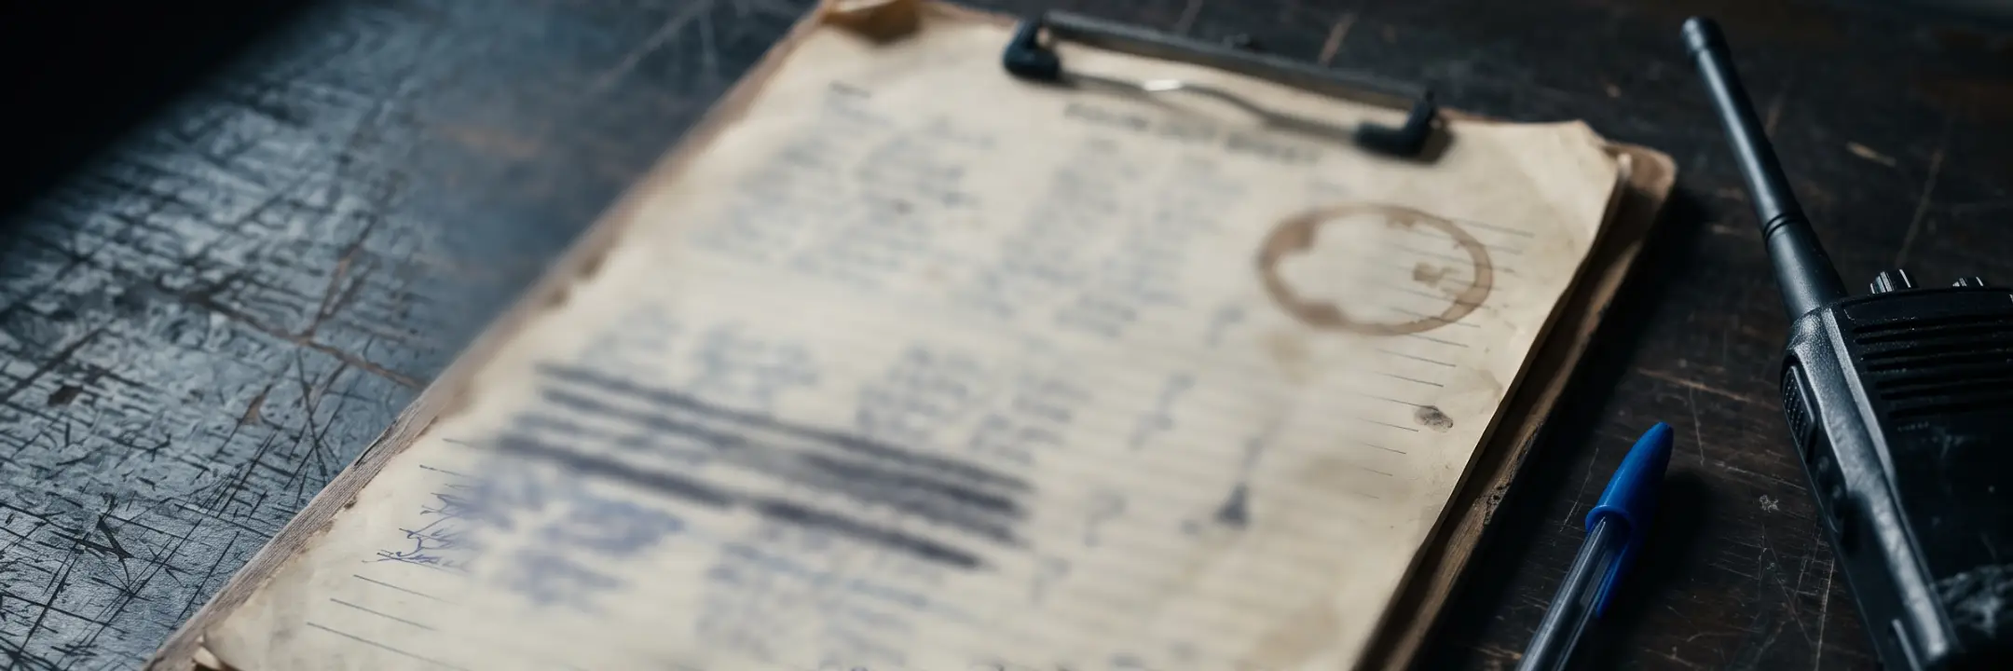
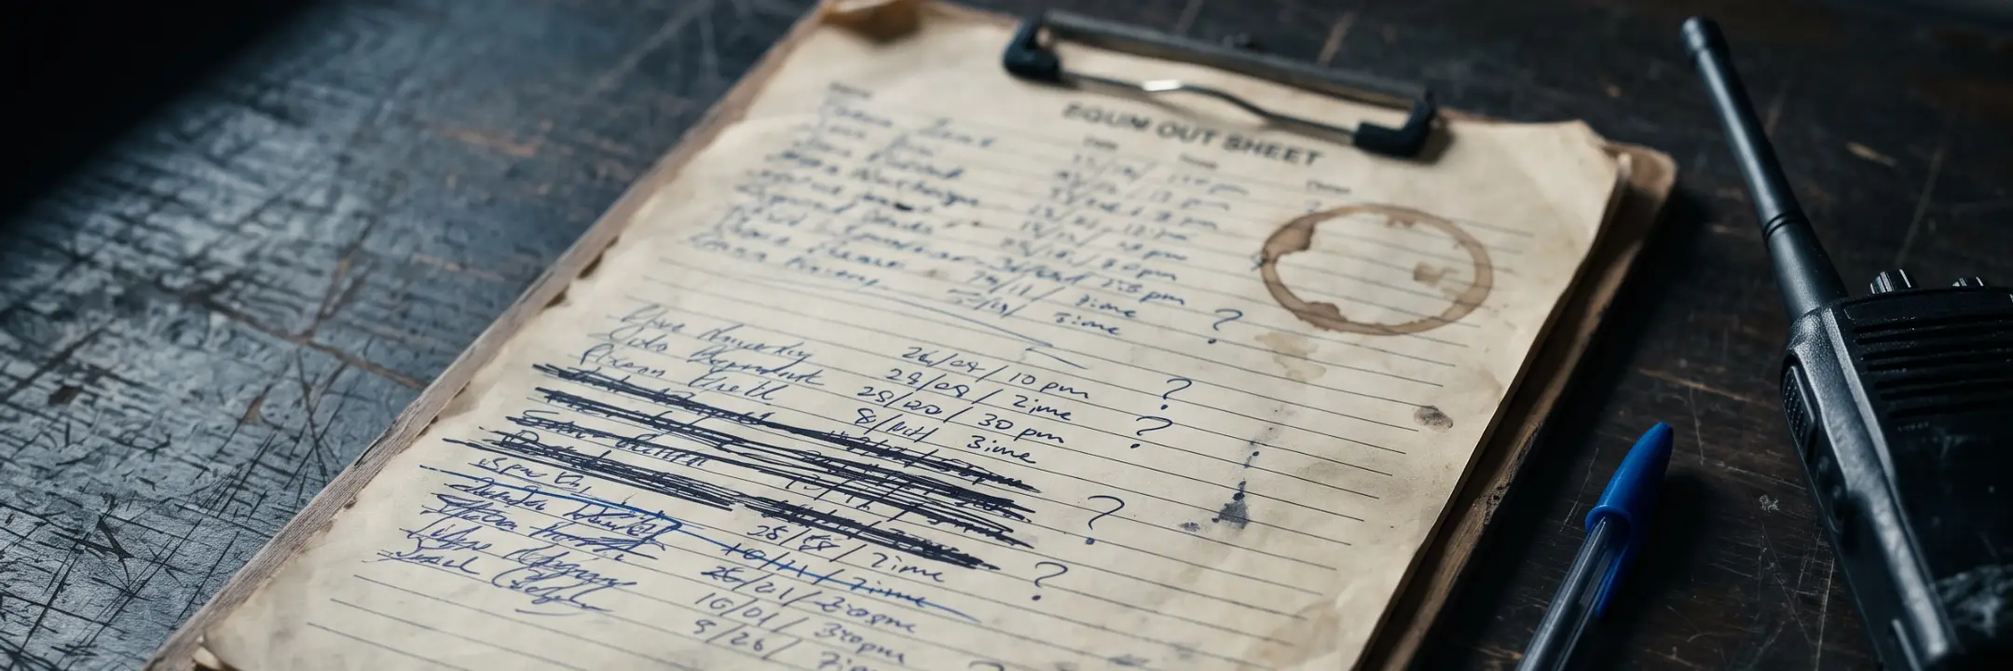
fix(site): the Director's review picks — the clipboard sharp again, the activity log's limit stated, Paddle's stylesheet on /pay
- "Clipboard · A · Crisp, as in the mock": the paper photo (the home's problem section and the Field Notes strip) is served
  sharp again; its scribbles are made-up pseudo-dates on a staged sheet and reveal nothing about when the site changed.
- "Log limit · A · Say the limit on the site": the live purge keeps 12 months OR the newest 50,000 actions per workspace,
  so every place that promises 12 months of activity now says so (home, /product, FAQ, guides, changelog; EN + HE).
- "/pay styles · A · Allow Paddle's stylesheet there" (SEC-PR1-3): style-src on /pay adds https://cdn.paddle.com only;
  Paddle's retain script stays blocked, and a refusal of the stylesheet now fails the pinned CSP walk.

Claude-Session: https://claude.ai/code/session_01UuJvrsWccbWnuyUmEBS649

diff --git a/src/bodies/index.he.html b/src/bodies/index.he.html
@@ -12,7 +12,7 @@
           <div class="glass rise rise-3">
             <div class="gp"><span class="gp-tick" aria-hidden="true"></span><span class="gp-tick" aria-hidden="true"></span><span class="gp-tick" aria-hidden="true"></span><span class="gp-tick" aria-hidden="true"></span><p class="gp-n"><bdi>1</bdi><span class="gp-unit">פעולה</span></p><p>ערכה שלמה מנופקת ונבדקת</p></div>
             <div class="gp"><span class="gp-tick" aria-hidden="true"></span><span class="gp-tick" aria-hidden="true"></span><span class="gp-tick" aria-hidden="true"></span><span class="gp-tick" aria-hidden="true"></span><p class="gp-n"><bdi>0</bdi><span class="gp-unit">מקומות</span></p><p>למי שמקבל ציוד</p></div>
-            <div class="gp"><span class="gp-tick" aria-hidden="true"></span><span class="gp-tick" aria-hidden="true"></span><span class="gp-tick" aria-hidden="true"></span><span class="gp-tick" aria-hidden="true"></span><p class="gp-n"><bdi>12</bdi><span class="gp-unit">חודשים</span></p><p>של פעילות נשמרים ביומן</p></div>
+            <div class="gp"><span class="gp-tick" aria-hidden="true"></span><span class="gp-tick" aria-hidden="true"></span><span class="gp-tick" aria-hidden="true"></span><span class="gp-tick" aria-hidden="true"></span><p class="gp-n"><bdi>12</bdi><span class="gp-unit">חודשים</span></p><p>של פעילות ביומן, עד 50,000 פעולות</p></div>
           </div>
         </div>
     </gl-band>
@@ -103,7 +103,7 @@
         </div>
         <div class="nums rv">
           <div><p class="num-v"><bdi data-to="14">14</bdi><span class="num-unit">ימים</span></p><p>אישור מסירה ממתין לחתימה</p></div>
-          <div><p class="num-v"><bdi data-to="12">12</bdi><span class="num-unit">חודשים</span></p><p>של פעילות ביומן</p></div>
+          <div><p class="num-v"><bdi data-to="12">12</bdi><span class="num-unit">חודשים</span></p><p>של פעילות ביומן, עד 50,000 פעולות</p></div>
           <div><p class="num-v"><bdi data-to="5">5</bdi><span class="num-unit">חשבונות</span></p><p>כלולים בתוכנית הבסיס</p></div>
           <div><p class="num-v"><bdi data-to="6">6</bdi><span class="num-unit">מצבים</span></p><p>כל אישור מסירה, מממתין ועד נחתם, בערעור או פג תוקף</p></div>
         </div>

diff --git a/src/bodies/index.en.html b/src/bodies/index.en.html
@@ -12,7 +12,7 @@
           <div class="glass rise rise-3">
             <div class="gp"><span class="gp-tick" aria-hidden="true"></span><span class="gp-tick" aria-hidden="true"></span><span class="gp-tick" aria-hidden="true"></span><span class="gp-tick" aria-hidden="true"></span><p class="gp-n"><bdi>1</bdi><span class="gp-unit">act</span></p><p>A whole kit handed out and checked</p></div>
             <div class="gp"><span class="gp-tick" aria-hidden="true"></span><span class="gp-tick" aria-hidden="true"></span><span class="gp-tick" aria-hidden="true"></span><span class="gp-tick" aria-hidden="true"></span><p class="gp-n"><bdi>0</bdi><span class="gp-unit">seats</span></p><p>For the people who receive gear</p></div>
-            <div class="gp"><span class="gp-tick" aria-hidden="true"></span><span class="gp-tick" aria-hidden="true"></span><span class="gp-tick" aria-hidden="true"></span><span class="gp-tick" aria-hidden="true"></span><p class="gp-n"><bdi>12</bdi><span class="gp-unit">months</span></p><p>Of activity kept in the log</p></div>
+            <div class="gp"><span class="gp-tick" aria-hidden="true"></span><span class="gp-tick" aria-hidden="true"></span><span class="gp-tick" aria-hidden="true"></span><span class="gp-tick" aria-hidden="true"></span><p class="gp-n"><bdi>12</bdi><span class="gp-unit">months</span></p><p>Of activity in the log, up to 50,000 actions</p></div>
           </div>
         </div>
     </gl-band>
@@ -103,7 +103,7 @@
         </div>
         <div class="nums rv">
           <div><p class="num-v"><bdi data-to="14">14</bdi><span class="num-unit">days</span></p><p>A receipt waits for its signature</p></div>
-          <div><p class="num-v"><bdi data-to="12">12</bdi><span class="num-unit">months</span></p><p>Of activity in the log</p></div>
+          <div><p class="num-v"><bdi data-to="12">12</bdi><span class="num-unit">months</span></p><p>Of activity in the log, up to 50,000 actions</p></div>
           <div><p class="num-v"><bdi data-to="5">5</bdi><span class="num-unit">accounts</span></p><p>Included in the base plan</p></div>
           <div><p class="num-v"><bdi data-to="6">6</bdi><span class="num-unit">states</span></p><p>Every receipt, from waiting to signed, disputed or expired</p></div>
         </div>

diff --git a/src/bodies/changelog.he.html b/src/bodies/changelog.he.html
@@ -1009,7 +1009,7 @@
               <h2 class="changelog-title">תצוגה אישית, היסטוריית פעילות ולוחות בקרה חכמים יותר</h2>
               <ul class="changelog-list">
                 <li>ברירות מחדל לתצוגת סביבת העבודה &mdash; מנהלים יכולים לקבוע את גודל הטקסט המוגדר כברירת מחדל וכמה קבוצות יושבות ברוחב שורה עבור כל סביבת העבודה, בעוד כל אדם עדיין יכול להתאים אישית את התצוגה שלו</li>
-                <li>היסטוריית פעילות בכל מקום &mdash; כפתור יומנים על כל אדם, קבוצה או כרטיסייה פותח רשומה הניתנת לגלילה של מה שהוקצה, הוחזר ונופק, נטענת בעמודים ונשמרת שנים עשר חודשים</li>
+                <li>היסטוריית פעילות בכל מקום &mdash; כפתור יומנים על כל אדם, קבוצה או כרטיסייה פותח רשומה הניתנת לגלילה של מה שהוקצה, הוחזר ונופק, נטענת בעמודים ונשמרת שנים עשר חודשים (עד 50,000 הפעולות האחרונות לסביבת עבודה)</li>
                 <li>וידג׳טים ניתנים לעריכה בלוח הבקרה עם תצוגה מקדימה חיה &mdash; התאימו כל וידג׳ט קיים, וראו בדיוק כיצד וידג׳ט ייראה בזמן שאתם בונים אותו</li>
                 <li>נתוני הדגמה עשירים יותר &mdash; פריסת מגזר לדוגמה ממלאת אותו עכשיו בשבועות של פעילות מציאותית ובלוח אנליטיקה מוכן, כך שתוכלו לחקור את כל האפליקציה מיד</li>
                 <li>האנליטיקה עוצבה מחדש כדי להתאים למראה גיליון-המפרט של האפליקציה</li>

diff --git a/src/bodies/guides.he.html b/src/bodies/guides.he.html
@@ -36,7 +36,7 @@
           <div class="cap-card">
             <div class="cap-ref">4.6</div>
             <h2 class="cap-name">עיון בהיסטוריה שלכם</h2>
-            <p class="cap-desc">לחצו על כפתור ההיסטוריה של כל איש צוות, קבוצה, ערכה או כרטיסייה &mdash; ועל <em>היסטוריה</em> בפריט מאורכב בארכיון &mdash; כדי לראות את כל מה שקרה &mdash; הקצאות, החזרות וניפוקים &mdash; באותה טבלה שבה משתמשים יומני המערכת: חותמת זמן, משתמש, סוג ופעולה, כשהכותרת נשארת במקומה תוך כדי גלילה, בקידוד צבעים ובציון מי עשה מה, עד שנים עשר חודשים אחורה.</p>
+            <p class="cap-desc">לחצו על כפתור ההיסטוריה של כל איש צוות, קבוצה, ערכה או כרטיסייה &mdash; ועל <em>היסטוריה</em> בפריט מאורכב בארכיון &mdash; כדי לראות את כל מה שקרה &mdash; הקצאות, החזרות וניפוקים &mdash; באותה טבלה שבה משתמשים יומני המערכת: חותמת זמן, משתמש, סוג ופעולה, כשהכותרת נשארת במקומה תוך כדי גלילה, בקידוד צבעים ובציון מי עשה מה, עד שנים עשר חודשים אחורה (עד 50,000 הפעולות האחרונות לסביבת עבודה).</p>
           </div>
           <div class="cap-card">
             <div class="cap-ref">4.7</div>

diff --git a/src/bodies/product.he.html b/src/bodies/product.he.html
@@ -123,8 +123,8 @@
             <div class="feat-copy rv">
               <span class="lbl">הרישום המלא</span>
               <h3>כל פעולה ברישום, עם מי ומתי.</h3>
-              <p>כל ניפוק, החזרה, תיקון וגריעה נכנסים ליומן הפעילות עם מי ביצע ומתי. אף חשבון אינו יכול לערוך את ההיסטוריה, וחשבונות רגילים אינם יכולים למחוק ממנה. היומן נשמר 12 חודשים, וייצוא מלא זמין מתי שתרצו, כ־CSV, כ־Excel או להדפסה.</p>
-              <ul class="pts"><li>מי ביצע, ומתי</li><li>נשמר 12 חודשים</li><li>ייצוא מלא, מתי שתרצו</li></ul>
+              <p>כל ניפוק, החזרה, תיקון וגריעה נכנסים ליומן הפעילות עם מי ביצע ומתי. אף חשבון אינו יכול לערוך את ההיסטוריה, וחשבונות רגילים אינם יכולים למחוק ממנה. היומן שומר את 12 החודשים האחרונים, עד 50,000 פעולות לסביבת עבודה, וייצוא מלא זמין מתי שתרצו, כ־CSV, כ־Excel או להדפסה.</p>
+              <ul class="pts"><li>מי ביצע, ומתי</li><li>12 החודשים האחרונים, עד 50,000 פעולות</li><li>ייצוא מלא, מתי שתרצו</li></ul>
             </div>
             <div class="rv"><gl-shot id="logs"></gl-shot></div>
           </div>

diff --git a/src/bodies/changelog.en.html b/src/bodies/changelog.en.html
@@ -1009,7 +1009,7 @@
               <h2 class="changelog-title">Personal Display, Activity History &amp; Smarter Dashboards</h2>
               <ul class="changelog-list">
                 <li>Workspace display defaults — admins can set the default text size and how many groups sit across a row for the whole workspace, while each person can still personalise their own view</li>
-                <li>Activity history everywhere — a Logs button on any person, group, or tab opens a scrollable record of what has been assigned, returned, and dispensed, loaded in pages and kept for twelve months</li>
+                <li>Activity history everywhere — a Logs button on any person, group, or tab opens a scrollable record of what has been assigned, returned, and dispensed, loaded in pages and kept for twelve months (up to the newest 50,000 actions per workspace)</li>
                 <li>Editable dashboard widgets with live preview — adjust any existing widget, and see exactly what a widget will look like as you build it</li>
                 <li>Richer demo data — deploying a sample sector now fills it with weeks of realistic activity and a ready-made analytics dashboard, so you can explore the whole app straight away</li>
                 <li>Analytics restyled to match the app's spec-sheet look</li>

diff --git a/src/bodies/faq.he.html b/src/bodies/faq.he.html
@@ -390,7 +390,7 @@
           </div>
           <div class="faq-item">
             <h2 class="faq-q">האם יש היסטוריית פעילות?</h2>
-            <p class="faq-a">כן. כפתור יומנים על כל אדם, קבוצה או כרטיסייה פותח רישום שוטף של מה שהוקצה, הוחזר ונופק — נשמר למשך שנים-עשר חודשים וניתן לחיפוש. כל רשומה אומרת מי ביצע את הפעולה, וקודי הסימוכין והכמויות צבועים בקוד צבע לפי סוג, כך שההיסטוריה נקראת במבט אחד.</p>
+            <p class="faq-a">כן. כפתור יומנים על כל אדם, קבוצה או כרטיסייה פותח רישום שוטף של מה שהוקצה, הוחזר ונופק — נשמר למשך שנים-עשר חודשים (עד 50,000 הפעולות האחרונות לסביבת עבודה) וניתן לחיפוש. כל רשומה אומרת מי ביצע את הפעולה, וקודי הסימוכין והכמויות צבועים בקוד צבע לפי סוג, כך שההיסטוריה נקראת במבט אחד.</p>
           </div>
           <div class="faq-item">
             <h2 class="faq-q">האם הצוות שלי יכול לעבוד ב-GearLogs בו-זמנית?</h2>

diff --git a/src/bodies/product.en.html b/src/bodies/product.en.html
@@ -123,8 +123,8 @@
             <div class="feat-copy rv">
               <span class="lbl">The whole record</span>
               <h3>Every action on the record, with who and when.</h3>
-              <p>Every hand-out, return, repair and write-off lands in the activity log with who did it and when. No account can edit the history and routine accounts cannot delete from it. The log is kept for 12 months, and a full export is there whenever you want it, as CSV, Excel or print.</p>
-              <ul class="pts"><li>Who did it, and when</li><li>Kept for 12 months</li><li>A full export, whenever you want it</li></ul>
+              <p>Every hand-out, return, repair and write-off lands in the activity log with who did it and when. No account can edit the history and routine accounts cannot delete from it. The log keeps the last 12 months, up to 50,000 actions per workspace, and a full export is there whenever you want it, as CSV, Excel or print.</p>
+              <ul class="pts"><li>Who did it, and when</li><li>The last 12 months, up to 50,000 actions</li><li>A full export, whenever you want it</li></ul>
             </div>
             <div class="rv"><gl-shot id="logs"></gl-shot></div>
           </div>

diff --git a/src/bodies/guides.en.html b/src/bodies/guides.en.html
@@ -36,7 +36,7 @@
           <div class="cap-card">
             <div class="cap-ref">4.6</div>
             <h2 class="cap-name">Review Your History</h2>
-            <p class="cap-desc">Use the history button on any person, group, kit or tab &mdash; and <em>History</em> on an archived item in the Archive &mdash; to see everything that&rsquo;s happened &mdash; assignments, returns, dispensing &mdash; in the same table System Logs uses: timestamp, user, type and action, the header staying put as you scroll, colour-coded and naming who did what, going back twelve months.</p>
+            <p class="cap-desc">Use the history button on any person, group, kit or tab &mdash; and <em>History</em> on an archived item in the Archive &mdash; to see everything that&rsquo;s happened &mdash; assignments, returns, dispensing &mdash; in the same table System Logs uses: timestamp, user, type and action, the header staying put as you scroll, colour-coded and naming who did what, going back twelve months (up to the newest 50,000 actions per workspace).</p>
           </div>
           <div class="cap-card">
             <div class="cap-ref">4.7</div>

diff --git a/src/bodies/faq.en.html b/src/bodies/faq.en.html
@@ -390,7 +390,7 @@
           </div>
           <div class="faq-item">
             <h2 class="faq-q">Is there an activity history?</h2>
-            <p class="faq-a">Yes. A Logs button on any person, group, or tab opens a running record of what's been assigned, returned, and dispensed — kept for twelve months and searchable. Every entry names who performed the action, and reference codes and quantities are colour-coded by type so the history reads at a glance.</p>
+            <p class="faq-a">Yes. A Logs button on any person, group, or tab opens a running record of what's been assigned, returned, and dispensed — kept for twelve months (up to the newest 50,000 actions per workspace) and searchable. Every entry names who performed the action, and reference codes and quantities are colour-coded by type so the history reads at a glance.</p>
           </div>
           <div class="faq-item">
             <h2 class="faq-q">Can my team work in GearLogs at the same time?</h2>

diff --git a/CLAUDE.md b/CLAUDE.md
@@ -7,7 +7,7 @@ A generated, **bilingual** static site (EN + native Hebrew, RTL — since web #7
 
 ## The Stage 2 look (2026-09-27, the approved Home Mock)
 - **The chrome** (`src/chrome.mjs`): the header floats transparent over the page's first band (a page that opens without one gets it on ink, `.is-solid`); the bar is Product · Security · Pricing · a click-open **Help** menu (`<details>`, closed on Escape/outside click by `src/scripts/nav/menu.ts`), then the language link · Sign in · Request access (`/contact?reason=access&from=header`); the footer is the ink band with only pages that exist (F1 · A). Words live in `src/i18n.mjs` (`NAV_ITEMS`, `FOOTER_COLUMNS`, EN + HE).
-- **The photo band** (F3 · C): every page opens with `<gl-band photo="…">` (the home's is the hero variant) holding `.band-kicker` · ONE `<h1 class="band-title">` · `.band-lede` (· `.band-note`, `.band-trail`; `variant="article"` for a Field Note). `scripts/lib/band.mjs` expands it; the build refuses a page without one. Photos: originals in `assets/photos/` (never deployed, provenance in `PROVENANCE.md`) → `npm run photos` cuts each to a 3:1 strip in three widths into `public/img/photos/` + `manifest.json` (a date-like patch is cut out or blurred in the served copy — no dates on the site).
+- **The photo band** (F3 · C): every page opens with `<gl-band photo="…">` (the home's is the hero variant) holding `.band-kicker` · ONE `<h1 class="band-title">` · `.band-lede` (· `.band-note`, `.band-trail`; `variant="article"` for a Field Note). `scripts/lib/band.mjs` expands it; the build refuses a page without one. Photos: originals in `assets/photos/` (never deployed, provenance in `PROVENANCE.md`) → `npm run photos` cuts each to a 3:1 strip in three widths into `public/img/photos/` + `manifest.json` (the legal strip is cut above its dated-looking form; the clipboard stays sharp by his pick "Clipboard · A · Crisp, as in the mock").
 - **Real app screens** (S2-02): a body writes `<gl-shot id="board">` (optionally `inset="mygear-receipt"`); `scripts/lib/shots.mjs` expands it from `public/img/app/manifest.json` into the ONE frame (the page's language, its alt text, 1600w + the full 2× picture, click to enlarge in the ONE viewer `src/scripts/lightbox/lightbox.ts`). The build refuses an unknown id, a missing language, a picture in the other language and ANY `/img/app/` picture outside a frame. `npm run capture` writes both sizes; a shot may picture one element (`target`) or a rectangle it measures (`clip`).
 - **Section photos**: `<gl-photo name="repair" class="pc-img" sizes="606px">` (`scripts/lib/photo-tags.mjs`, with `<gl-band>`; the home's hero is `<gl-band photo="hero" variant="hero">`). Every photo is decorative (`alt=""`), never captioned as a customer.
 - **Motion** (Q11 · A): `src/scripts/motion/motion.ts` — a `.rv` block rises in once, `data-stagger` rows follow one another, `data-to` numbers count up; hidden only after the script marks `<html class="motion">`; reduced motion = still. The hero's push is CSS, once.

diff --git a/assets/photos/PROVENANCE.md b/assets/photos/PROVENANCE.md
@@ -33,8 +33,8 @@ Made the same way (the Gemini app, Nano Banana 2, Pro, 16:9, his signed-in brows
 | contact.jpg | 16:9 · 2752×1536 | An operations coordinator on a headset at a depot-office desk, warm lamp light, the warehouse through an interior window | /contact |
 | legal.jpg | 16:9 · 2752×1536 | A records room: plain archive binders and box files, one binder open with a signed form and a pen, handwriting illegible (second take: the first take's boxes carried readable words) | /privacy · /terms · /refunds |
 
-Field Notes keeps paper.jpg. **Edits to record in the served copies** (the site shows no dates — the Director's rule; the originals here stay untouched): legal.jpg's open form carries date-like pseudo-writing, so its served strip is cut ABOVE the binder (the form is not in the file at all); paper.jpg's sign-out sheet carries date-like scribbles, so its served strip blurs the handwriting through a feathered mask.
+Field Notes keeps paper.jpg. **Edits to record in the served copies** (the site shows no dates — the Director's rule; the originals here stay untouched): legal.jpg's open form carries date-like pseudo-writing, so its served strip is cut ABOVE the binder (the form is not in the file at all). paper.jpg's sign-out sheet carries date-like scribbles; its served copies are SHARP, as in the approved mock (his pick "Clipboard · A · Crisp, as in the mock", 2026-09-27: made-up pseudo-dates on a staged sheet reveal nothing about when the site changed).
 
 ## The served copies (Stage 2 PR-2, 2026-09-27)
-`npm run photos` (`scripts/images/photos.mjs`, the one in-browser encoder `scripts/images/encode.mjs`) writes each inner-page band photo as a 3:1 strip in three widths (1440 · 2160 · the source width) to `public/img/photos/<name>-band.<width>.webp`, WebP q0.72 with the metadata dropped, and indexes them in `public/img/photos/manifest.json`. Where each strip sits is set per photo in the script.
+`npm run photos` (`scripts/images/photos.mjs`, the one in-browser encoder `scripts/images/encode.mjs`) writes every served photo from ONE table: the inner-page bands as 3:1 strips in three widths (q0.72), the home's hero in three widths, the sector tiles and section photos in two (q0.78), metadata dropped, indexed in `public/img/photos/manifest.json`. Where each cut sits is set per photo in the table.
 
